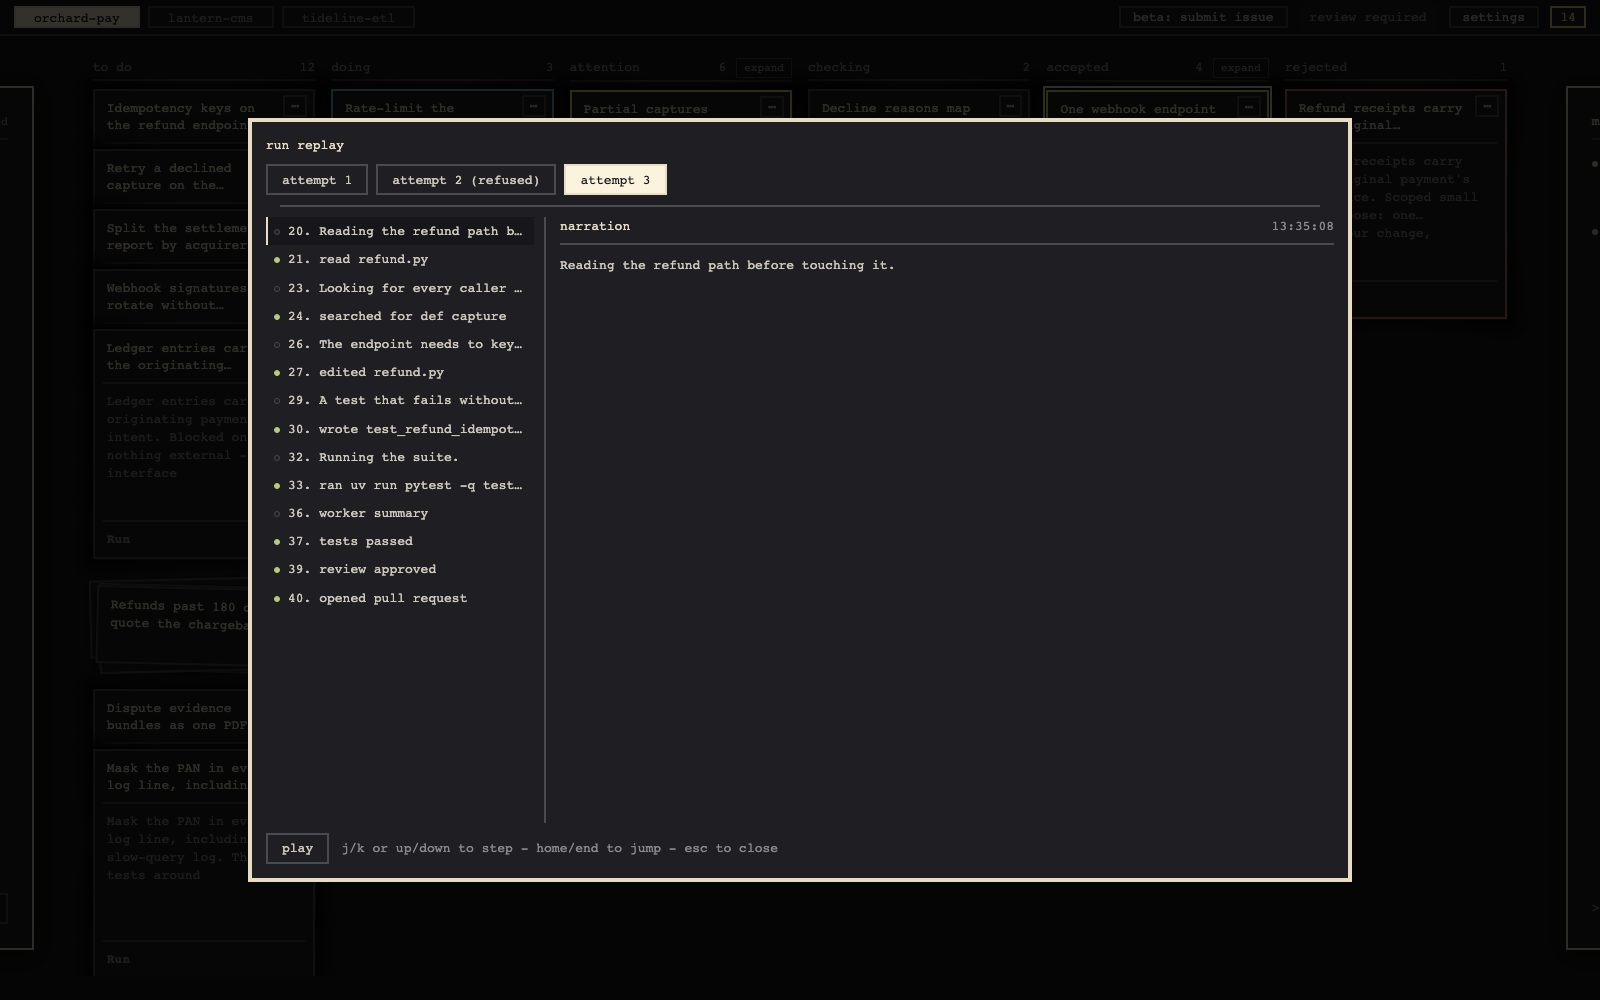
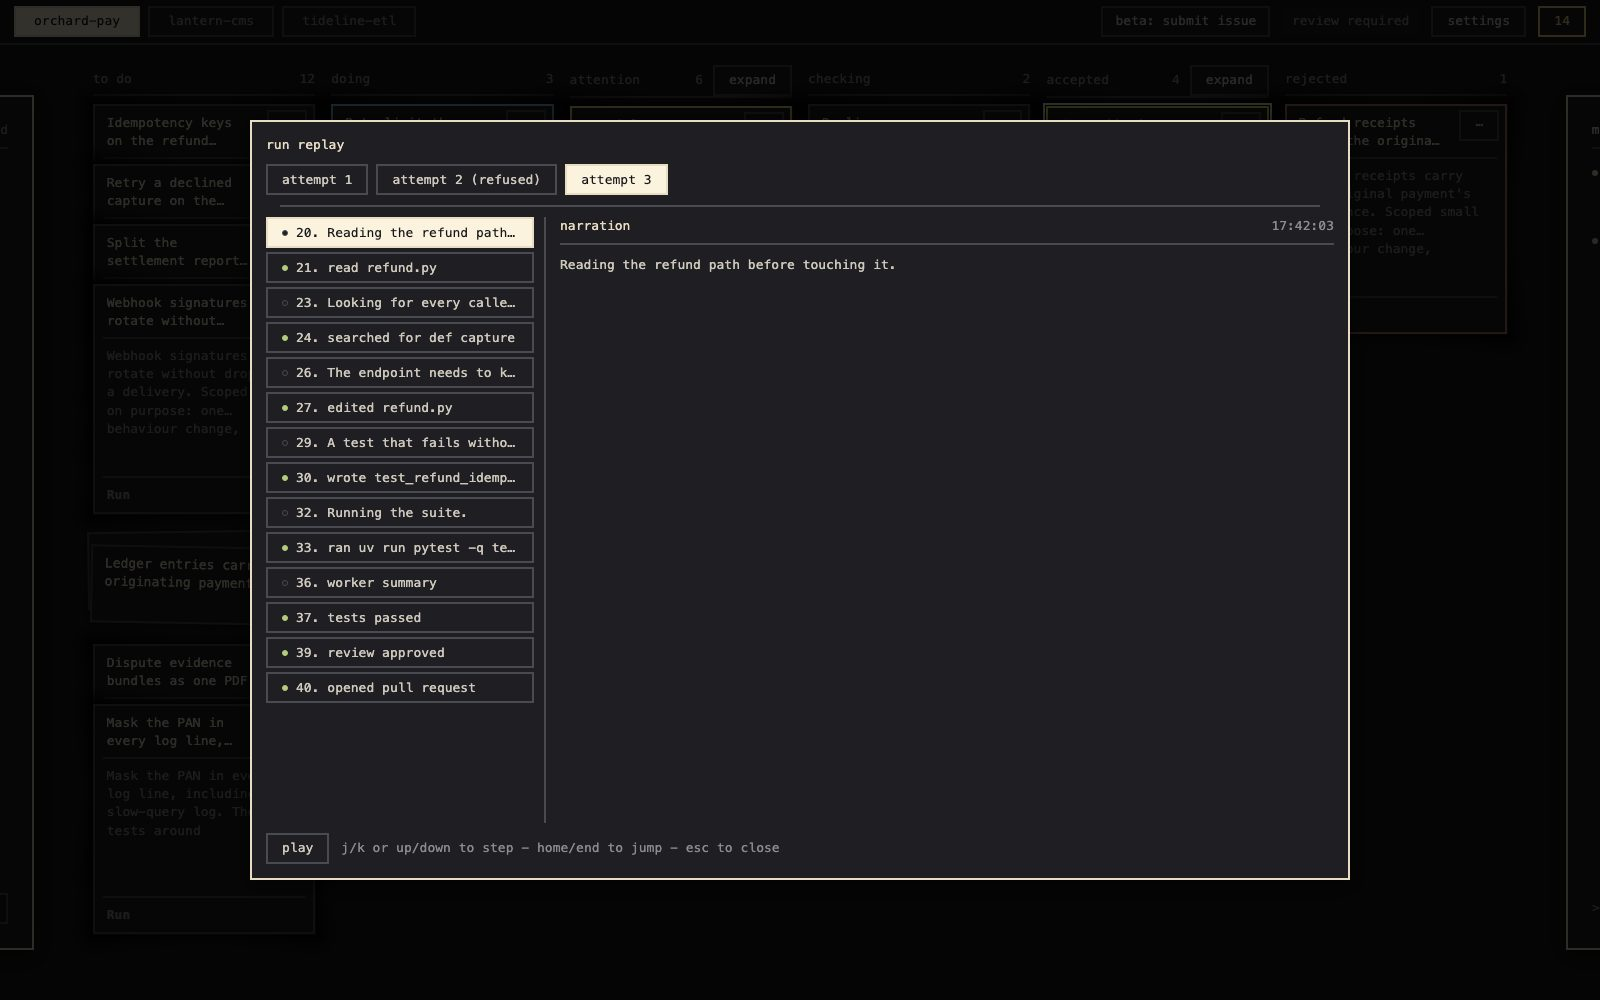
retook every readme and docs screenshot on the one-look build, and updated two image descriptions
Claude-Session: https://claude.ai/code/session_01URWV3ht5P45VqmJX8jxDtj

diff --git a/docs/reference/configuration.md b/docs/reference/configuration.md
@@ -35,7 +35,7 @@ backup and the mouse. Labs and models: what a usage limit does, and the lab, mod
 effort per role. Cost control: spend caps per run and per card.
 
 <table><tr>
-<td width="33%"><img src="../images/settings-general.jpg" alt="General settings: the mouse, soft file leases and free merge switched on or off for every board, folders mission control can read, how many cards run at once, the mall cam interval and backup" width="100%"><br><sub>general: how it behaves</sub></td>
+<td width="33%"><img src="../images/settings-general.jpg" alt="General settings: soft file leases and free merge enabled or disabled for every board, folders mission control can read, where new repos go, how many cards run at once, the mall cam interval, backup and the mouse" width="100%"><br><sub>general: how it behaves</sub></td>
 <td width="33%"><img src="../images/settings-labs.jpg" alt="Labs and models: what a usage limit does - wait for the reset, ask, or switch by itself - and a primary model, a fallback order and an effort for the worker, reviewer, orchestrator and fold" width="100%"><br><sub>labs and models: who runs what</sub></td>
 <td width="33%"><img src="../images/settings-cost.jpg" alt="Spend caps per run: a card run, a review, a mission control turn, a fold, and a per-card total across every run" width="100%"><br><sub>cost control: what it may spend</sub></td>
 </tr></table>

diff --git a/docs/practices/cards.md b/docs/practices/cards.md
@@ -29,7 +29,7 @@ a queue you can leave running, and one can run hot while another stays cautious.
 
 ### The card
 
-![A card opened over the board, one column: what it is about, what it has done, what it needs, then its details folded to one line each](../images/hero-card.jpg)
+![A card opened over the board as a 2x2: what it is about and what it has done on top, what it needs and its details folded to one line each below](../images/hero-card.jpg)
 
 An open card is its title over a two-by-two grid:
 
